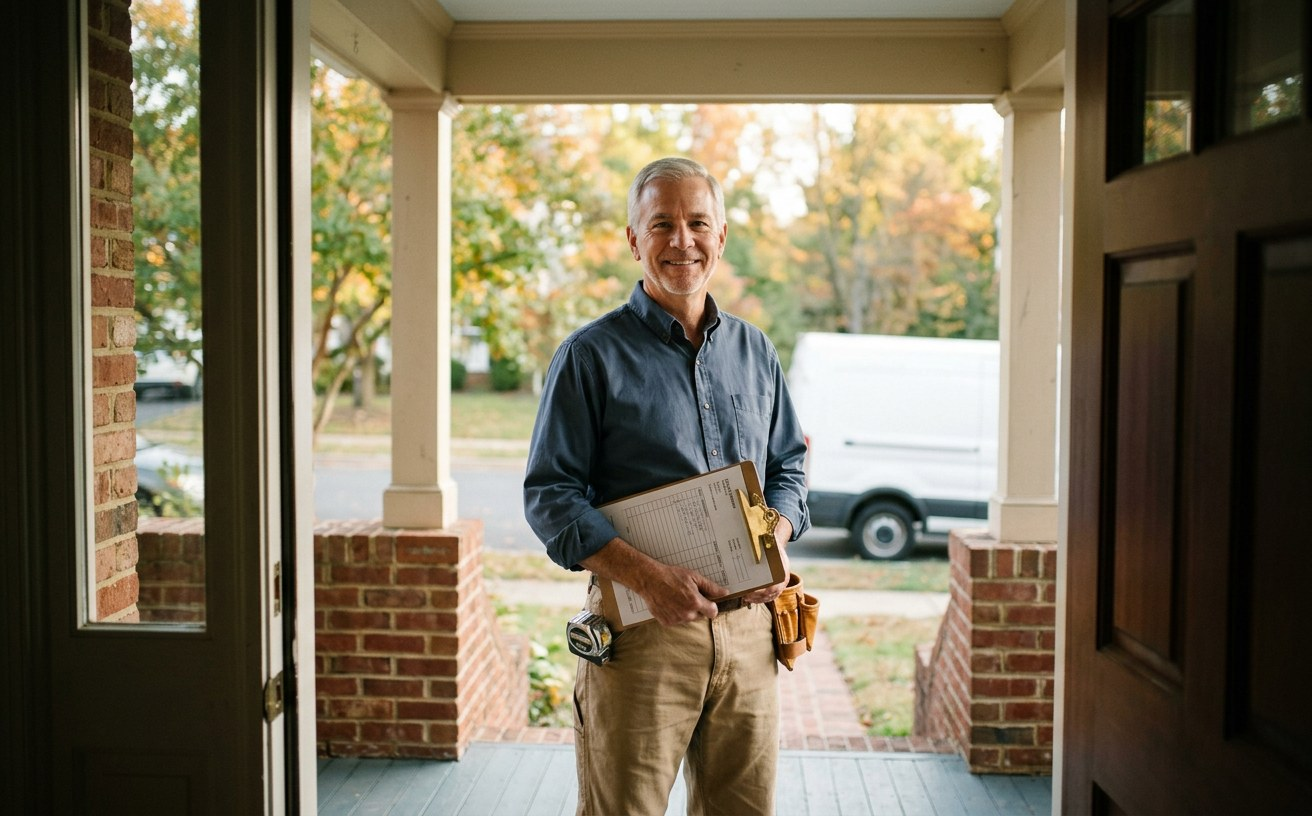
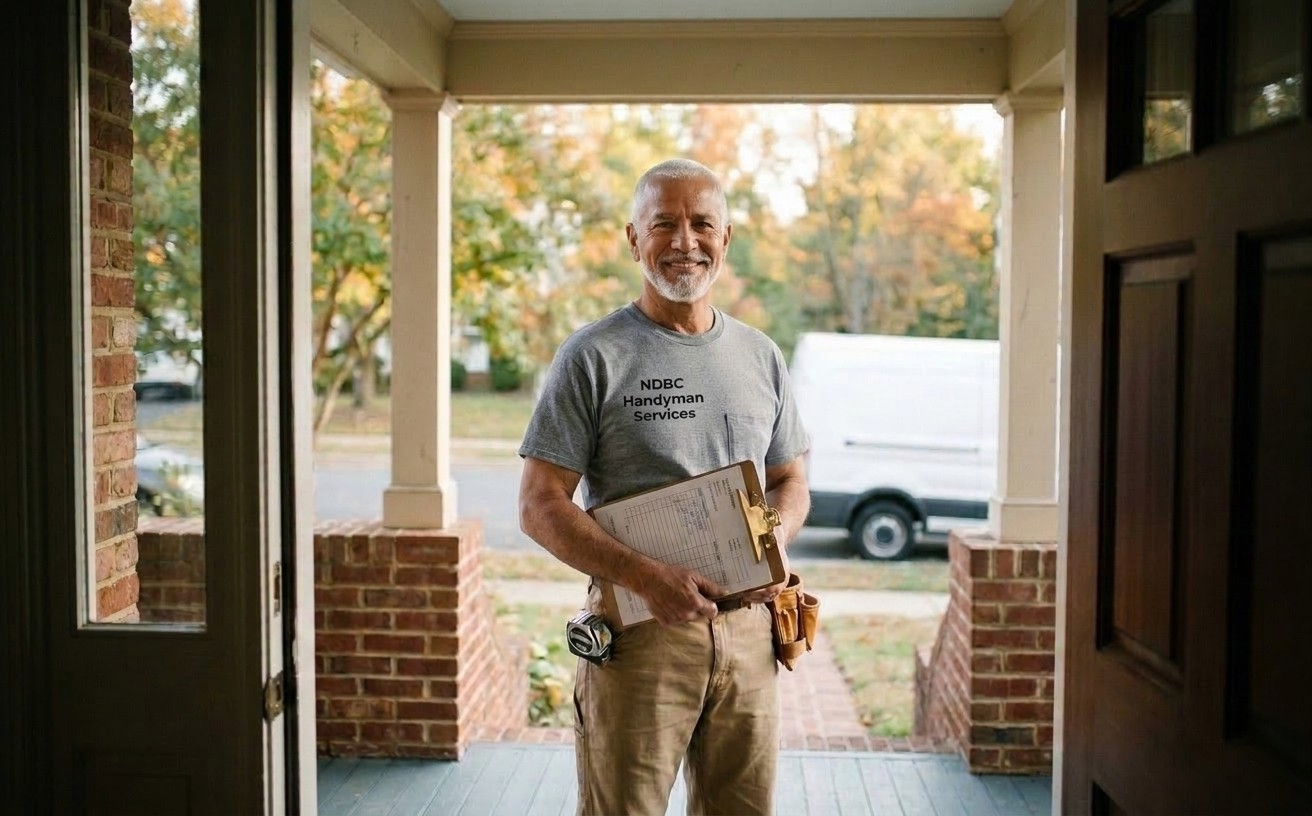
feat(v2): rotating slogans, updated owner portrait & branded grey shirt, SAB address & licenseActive toggle

diff --git a/src/pages/llms.txt.js b/src/pages/llms.txt.js
@@ -36,7 +36,11 @@ export async function GET({ site }) {
     `- **Email:** ${siteData.contact.email}`,
     `- **Regular Hours:** ${siteData.hours.regular}`,
     `- **Emergency Service:** ${siteData.hours.emergency} (Plumbing, electrical, water leaks, pipe thawing)`,
-    `- **Licensing:** Virginia Department of Professional and Occupational Regulation (DPOR) licensed contractor; Virginia Uniform Statewide Building Code (USBC) compliant`,
+    `- **Standards & Experience:** ${
+      siteData.licenseActive
+        ? 'Virginia Department of Professional and Occupational Regulation (DPOR) licensed contractor; Virginia Uniform Statewide Building Code (USBC) compliant'
+        : '20+ years Virginia building & remodeling experience; Virginia Uniform Statewide Building Code (USBC) compliant'
+    }`,
     `- **Insurance:** Active business and general liability insurance covering on-duty work`,
     `- **Pricing Model:** Upfront flat-rate fixed pricing (never billed by the hour)`,
     `- **Warranty:** Written 1-year workmanship guarantee`,
@@ -59,7 +63,7 @@ export async function GET({ site }) {
     `- [Before & After Portfolio](${rootUrl}portfolio/): Real project photography of decks, patios, bathrooms, kitchens, and entryways across Northern Virginia`,
     `- [FAQ](${rootUrl}faq/): Direct answers on online vs. same-day on-site quotes, flat-rate pricing, 1-year guarantee, and payment options`,
     `- [Home Maintenance Pro Tips](${rootUrl}tips/): Contractor checklists for basement waterproofing, 24-hour shower pan leak testing, kitchen plumbing, and deck care`,
-    `- [About Us](${rootUrl}about/): Company background, Virginia DPOR licensing, liability insurance, flat-rate pricing, and 1-year guarantee`,
+    `- [About Us](${rootUrl}about/): Company background, 20+ years Virginia experience, liability insurance, flat-rate pricing, and 1-year guarantee`,
     `- [Contact / Free Estimate](${rootUrl}contact/): Interactive flat-rate estimate request form, phone, email, and 24/7 emergency dispatch`,
     `- [Full Technical Corpus (llms-full.txt)](${rootUrl}llms-full.txt): Complete Q&A, technical checklists, and service specifications for AI search engines`,
     '',

diff --git a/src/pages/llms-full.txt.js b/src/pages/llms-full.txt.js
@@ -28,7 +28,7 @@ export async function GET({ site }) {
     '## 1. Entity Identity & Verified Facts',
     `- **Legal Name:** ${siteData.legalName}`,
     `- **Brand / Short Name:** ${siteData.name} (${siteData.shortName})`,
-    `- **Owner / Operator Profile:** Master Handyman & Virginia DPOR-licensed contractor with 20+ years of residential construction, maintenance, and remodeling experience in Northern Virginia.`,
+    `- **Owner / Operator Profile:** Master Handyman & contractor with 20+ years of residential construction, maintenance, and remodeling experience in Leesburg and Northern Virginia.`,
     `- **Primary Base:** ${addressFormatted}`,
     `- **Primary Coverage Region:** ${siteData.regionLabel}`,
     `- **Phone:** ${siteData.contact.phoneDisplay} (${siteData.contact.phone})`,
@@ -57,7 +57,11 @@ export async function GET({ site }) {
     '- **Q: How do I get a free quote?** Online via the Contact page (ready within hours) or on-site by calling (703) 869-4805 (delivered the same day).',
     '- **Q: Do you charge by the hour?** No. Every project is quoted as an upfront flat-rate price before work starts.',
     '- **Q: How long does interior painting take?** Approximately 1 day per 50 square meters (~540 sq ft), depending on wall prep.',
-    '- **Q: Are you licensed and insured in Virginia?** Yes, licensed under the Virginia Department of Professional and Occupational Regulation (DPOR) and covered by general liability insurance.',
+    `- **Q: Are you insured and experienced with Virginia building codes?** ${
+      siteData.licenseActive
+        ? 'Yes, licensed under the Virginia Department of Professional and Occupational Regulation (DPOR), USBC code-compliant, and covered by general liability insurance.'
+        : 'Yes, covered by full business and general liability insurance with 20+ years of Virginia contractor experience performing work in compliance with the Virginia Uniform Statewide Building Code (USBC).'
+    }`,
     '',
     '## 5. Complete 13-Category Service Catalog',
     serviceLines,

diff --git a/src/data/site.js b/src/data/site.js
@@ -14,6 +14,13 @@ const selectedNap =
   (rawSite.addresses && rawSite.addresses.leesburg) ||
   rawSite.nap;
 
+const envLicense =
+  typeof import.meta !== 'undefined' && import.meta.env && import.meta.env.PUBLIC_LICENSE_ACTIVE !== undefined
+    ? String(import.meta.env.PUBLIC_LICENSE_ACTIVE).trim().toLowerCase() === 'true'
+    : undefined;
+
+const licenseActive = envLicense !== undefined ? envLicense : Boolean(rawSite.licenseActive);
+
 const primaryCity = selectedNap.addressLocality || 'Leesburg';
 const primaryRegion = selectedNap.addressRegion || 'VA';
 const primaryCityState = `${primaryCity}, ${primaryRegion}`;
@@ -25,9 +32,40 @@ if (primaryCity && !serviceAreas.includes(primaryCity)) {
   serviceAreas.unshift(primaryCity);
 }
 
+const slogans = Array.isArray(rawSite.slogans) && rawSite.slogans.length >= 3
+  ? rawSite.slogans
+  : [
+      'A Master Craftsman at Your Door—Never a Franchise Crew',
+      'One Call. One Flat Rate. Done Right the First Time.',
+      '20+ Years of Virginia Craftsmanship—Guaranteed for a Full Year.',
+    ];
+
+const benefits = (rawSite.benefits || []).map((benefit) => {
+  if (!licenseActive && benefit.title === 'Licensed') {
+    return {
+      title: 'USBC Code-Compliant',
+      text: 'Over 20 years of Virginia building maintenance, remodeling, and USBC code-compliant home repair experience.',
+    };
+  }
+  return benefit;
+});
+
+const credentialBadge = licenseActive
+  ? 'Virginia DPOR Licensed & Insured'
+  : 'Fully Insured · USBC Code-Compliant';
+
+const credentialShort = licenseActive
+  ? 'VA DPOR · USBC Compliant'
+  : 'Insured · VA USBC Compliant';
+
 const site = {
   ...rawSite,
   activeAddressProfile: activeProfileKey,
+  licenseActive,
+  credentialBadge,
+  credentialShort,
+  slogans,
+  benefits,
   nap: selectedNap,
   primaryCity,
   primaryRegion,

diff --git a/src/styles/global.css b/src/styles/global.css
@@ -403,6 +403,7 @@ main {
   color: #ffffff;
   font-size: clamp(2.05rem, 3.6vw, 2.95rem);
   line-height: 1.1;
+  min-height: 2.2em;
   margin: 0 0 1rem;
   max-width: 16ch;
 }
